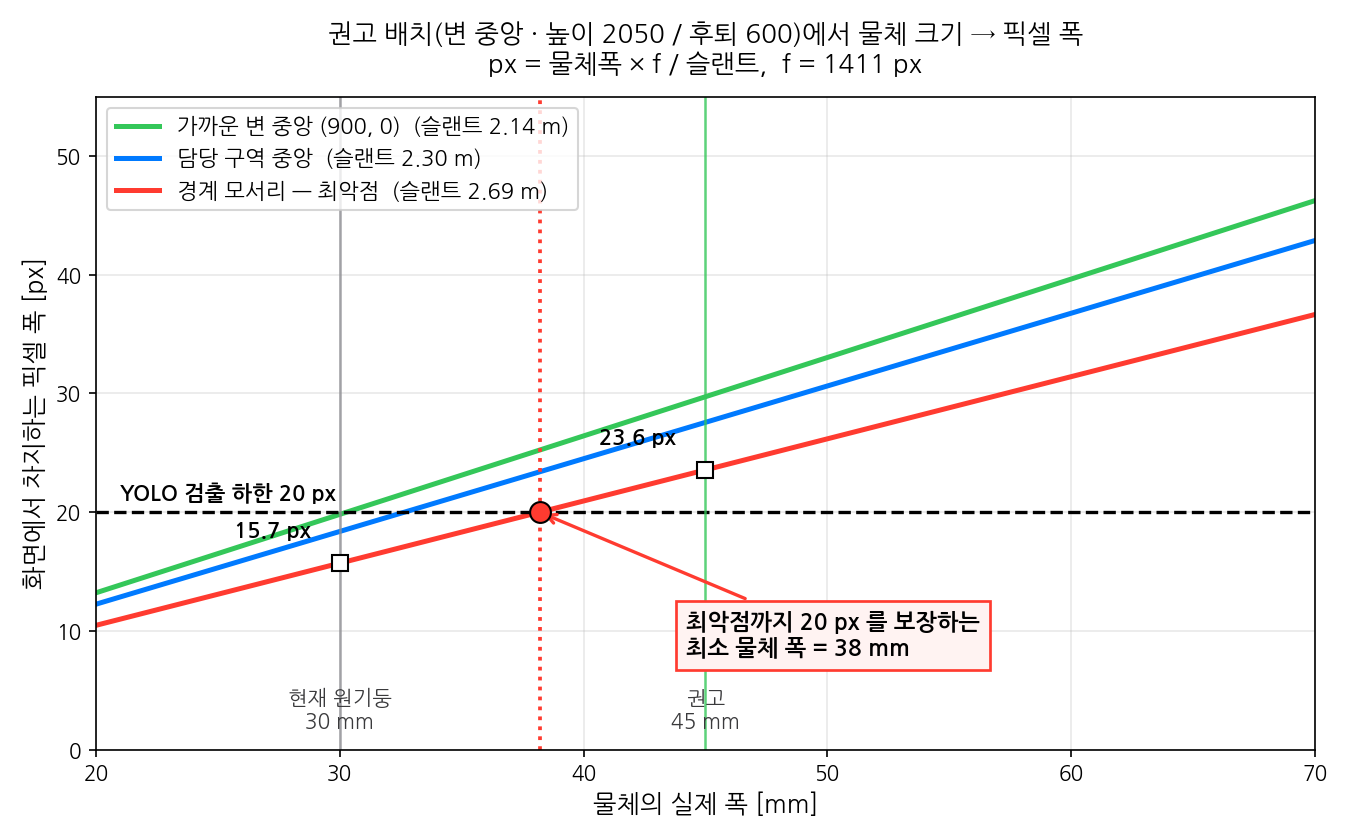
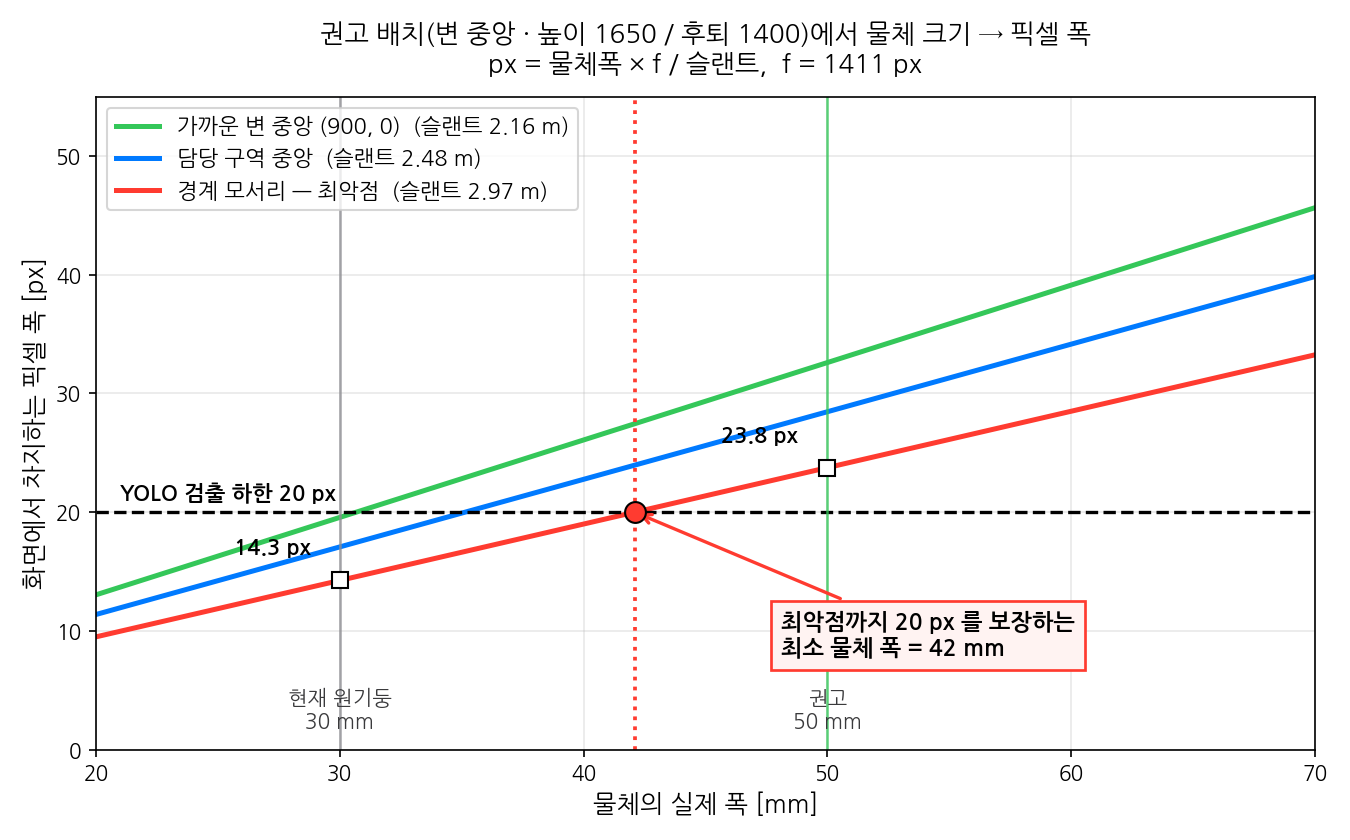
vision: #130 확정값(높이 1,650 · 변 중앙)을 반영
alex7663 이 #130 을 닫으면서 실측 확정값을 남겼다.
"카메라 설치 위치(폭/높이) 950 x 1,650 · 설치 방향 박스 전·후면 각 1대
· 고정 방식 카메라 삼각대 2대". 변 중앙 배치는 맞았고 높이가 다르다 —
삼각대 최대치가 1,650 이라 2,050 은 애초에 불가능했다.

- 확정 기하: 높이 1,650 · 후퇴 1,400 · 하향 42.8°
  (1,650 에서는 후퇴 1,150 미만이면 가로가 잘린다)
- 최악점 슬랜트 2.97 m · σmax 3.52 mm/px · 3 px = 10.6 mm
- 20 px 최소 물체 폭 42 mm → 권고 50 mm (45 mm 는 여유 7% 뿐)
- 가벽 가림 띠 377 mm · 상자 뒤 그림자 최대 790 mm

좌우 중심이 높이보다 예민하다. x=900 에서 50 mm 어긋나면
max|u| 가 591 → 624, 100 mm 면 657 로 프레임을 넘는다.
확정 기재의 "폭 950" 은 900 으로 잡아야 한다.

diff --git a/tools/a2/a2_homography.py b/tools/a2/a2_homography.py
@@ -58,14 +58,14 @@ import numpy as np
 # 값이 바뀌면 이 블록만 고치면 report 표까지 따라온다.
 
 WORKSPACE_MM = 1800.0  # 가벽 35 x 45 cm x 16장으로 두른 내부 (8/19 실측)
-CAM_HEIGHT_MM = 2050.0  # 보유 스탠드 최대 2.1 m 에서 흔들림 여유를 뺀 값 (#149 D3)
-CAM_SETBACK_MM = 600.0  # 마주보는 두 "변 중앙" 에서 바깥으로 후퇴 (#149 D3 정정 8/19)
+CAM_HEIGHT_MM = 1650.0  # 삼각대 최대 높이 (#130 확정 8/19). 고정값이다
+CAM_SETBACK_MM = 1400.0  # 마주보는 두 "변 중앙" 에서 바깥으로 후퇴 (#149 D3)
 FOCAL_PX = 1411.0  # f = (1280/2)/tan(24.4°) — C270 720p
-CAM_PITCH_DEG = 63.8  # 아래로 내려다보는 각. 스탠드 헤드가 이만큼 꺾이는지 먼저 확인할 것
-WORST_SLANT_MM = 2695.0  # 최악점(담당 절반의 경계 모서리) 슬랜트
-WORST_ELEV_DEG = 49.5  # 최악점 고도각
-MIN_OBJECT_MM = 40.0  # 최악점에서 20 px 을 보장하는 최소 물체 폭 (#149 D1)
-GEOMETRY_NOTE = "C270 x2 · 720p · HFOV 48.8° · 마주보는 두 변 중앙 · 높이 2.05 m · 후퇴 0.60 m"
+CAM_PITCH_DEG = 42.8  # 아래로 내려다보는 각
+WORST_SLANT_MM = 2970.0  # 최악점(담당 절반의 경계 모서리) 슬랜트
+WORST_ELEV_DEG = 33.7  # 최악점 고도각
+MIN_OBJECT_MM = 42.0  # 최악점에서 20 px 을 보장하는 최소 물체 폭 (#149 D1). 권고 50 mm
+GEOMETRY_NOTE = "C270 x2 · 720p · HFOV 48.8° · 마주보는 두 변 중앙 · 높이 1.65 m · 후퇴 1.40 m"
 
 # 담당 구역: A 는 y in [0, 900], B 는 y in [900, 1800]. 경계는 두 대가 함께 본다.
 HALF_MM = WORKSPACE_MM / 2

diff --git a/tools/a2/README_A2.md b/tools/a2/README_A2.md
@@ -24,7 +24,7 @@ cd tools/a2
 > [!IMPORTANT]
 > **지시점은 바운딩박스 아래쪽 모서리(바닥 접지선)다.**
 > 호모그래피는 바닥 평면만 사상한다. 물체 중심을 찍으면 물체 높이만큼 밀린다.
-> 고도각이 낮을수록 이 오차가 커진다 — 권고 배치의 최악점에서 1 px 이 2.24 mm 다(§4).
+> 고도각이 낮을수록 이 오차가 커진다 — 확정 배치의 최악점에서 1 px 이 3.52 mm 다(§4).
 
 ---
 
@@ -33,19 +33,21 @@ cd tools/a2
 ```
    Y
    ↑
-   │                    ▲ B (900, 2400)
+   │                    ▲ B (900, 3200)
    │  (0, 1800) ┌───────────────┐ (1800, 1800)
    │            │   B 담당      │
    │            ├───────────────┤  ← 담당 경계 y = 900
    │            │   A 담당      │
    │  (0, 0)    └───────────────┘ (1800, 0)
-   │                    ▲ A (900, -600)
+   │                    ▲ A (900, -1400)
    └──────────────────────────────→ X      (단위 mm)
 ```
 
-**카메라는 마주보는 두 "변 중앙" 바깥에 선다.** 모서리가 아니다 —
-모서리에 두면 담당 구역이 삼각형이 되어 최악점이 3.60 m 로 멀어지고,
-변 중앙에 두면 납작한 직사각형이라 2.69 m 로 가까워진다(§4·§6).
+**카메라는 마주보는 두 "변 중앙" 바깥에 선다** (#130 확정 — "박스 전·후면 각 1대").
+모서리가 아니다 — 모서리에 두면 담당 구역이 삼각형이 되어 최악점이 멀어진다(§4·§6).
+
+좌표는 A 가 `(900, -1400)`, B 가 `(900, 3200)`, 높이 1650 mm 다.
+**x = 900 을 정확히 맞추는 것이 높이보다 중요하다** (§4 주의).
 
 A 는 `y ∈ [0, 900]`, B 는 `y ∈ [900, 1800]` 을 담당하고 경계는 둘 다 본다.
 
@@ -188,39 +190,46 @@ A · B 를 합쳐 하나의 마크다운을 만든다.
 
 ## 4. 픽셀 민감도 — 왜 20 mm 가 빠듯한가
 
-C270 ×2 · **마주보는 두 변 중앙 · 높이 2050 mm · 후퇴 600 mm · 하향 63.8°** ·
+C270 ×2 · **마주보는 두 변 중앙 · 높이 1650 mm · 후퇴 1400 mm · 하향 42.8°** ·
 작업 공간 1.8 × 1.8 m · `f = 1411 px` 기준이다.
-(#149 D3. 표는 `python tools/a2/coverage_analysis.py` 로 언제든 다시 만든다.)
+(#130 확정. 표는 `python tools/a2/coverage_analysis.py` 로 언제든 다시 만든다.)
+
+> [!IMPORTANT]
+> **높이 1650 은 삼각대 최대치라 고정값이다.** 조절할 수 있는 건 후퇴뿐이고,
+> 후퇴를 줄이면 가로가 잘린다(최소 1150 mm). 1400 은 가로에 7.6% 여유를 둔 값이다.
 
 `σmax` 는 이미지→월드 사상 야코비안의 **최대 특이값**, 즉 클릭 1 px 이 최악 방향으로
-어긋났을 때의 월드 오차다. 괄호 안은 해석 근사 `slant / (f · sin θ)` 로, 최대 12% 보수적이다.
+어긋났을 때의 월드 오차다. 괄호 안은 해석 근사 `slant / (f · sin θ)` 다.
 
-| 지점 | 슬랜트 | 고도각 | **σmax (mm/px)** | 3 px 최악 | 30 mm 물체 | 45 mm 물체 |
+| 지점 | 슬랜트 | 고도각 | **σmax (mm/px)** | 3 px 최악 | 30 mm 물체 | 50 mm 물체 |
 |---|---|---|---|---|---|---|
-| 가까운 변 중앙 | 2.14 m | 73.7° | **1.53** (1.58) | 4.6 mm | 19.8 px | 29.7 px |
-| 가까운 변 모서리 | 2.32 m | 62.2° | **1.66** (1.86) | 5.0 mm | 18.3 px | 27.4 px |
-| 담당 구역 중앙 | 2.30 m | 62.9° | **1.83** (1.83) | 5.5 mm | 18.4 px | 27.6 px |
-| 경계 중앙 | 2.54 m | 53.8° | **2.16** (2.23) | 6.5 mm | 16.7 px | 25.0 px |
-| **경계 모서리 (최악점)** | **2.69 m** | **49.5°** | **2.24** (2.51) | **6.7 mm** | **15.7 px** | **23.6 px** |
+| 가까운 변 중앙 | 2.16 m | 49.7° | **1.98** (2.01) | 5.9 mm | 19.6 px | 32.7 px |
+| 가까운 변 모서리 | 2.34 m | 44.8° | **2.16** (2.36) | 6.5 mm | 18.1 px | 30.2 px |
+| 담당 구역 중앙 | 2.48 m | 41.7° | **2.64** (2.64) | 7.9 mm | 17.1 px | 28.5 px |
+| 경계 중앙 | 2.83 m | 35.7° | **3.39** (3.44) | 10.2 mm | 15.0 px | 25.0 px |
+| **경계 모서리 (최악점)** | **2.97 m** | **33.7°** | **3.52** (3.79) | **10.6 mm** | **14.3 px** | **23.8 px** |
 
-프레이밍은 `max|u| = 604 / 640`, `max|v| = 247 / 360` 이다. 가로가 빠듯한 쪽인데,
+프레이밍은 `max|u| = 591 / 640`, `max|v| = 176 / 360` 이다. 가로가 빠듯한 쪽인데,
 **카메라가 폭 1800 mm 를 통째로 담아야 하기 때문**이다. 이게 이 배치의 지배 제약이다.
 
 > [!CAUTION]
-> **30 mm 물체는 최악점에서 15.7 px 로, 검출 하한 20 px 에 못 미친다.**
-> 배치로는 못 고친다 — 높이 900~2600 mm × 후퇴 100~1600 mm 를 전수 탐색해도
-> 30 mm 의 최대치는 17.4 px 다(`fig1_placement_sweep.png`).
-> 최악점까지 20 px 을 보장하려면 **물체 폭이 38 mm 이상**이어야 한다.
-> 여유를 보아 **45 mm** 를 권고한다(23.6 px). → #149 D1
+> **좌우를 정확히 변의 중앙(x = 900)에 두어야 한다.** 50 mm 어긋나면 `max|u|` 가
+> 591 → 624 로 뛰고, 100 mm 면 657 로 **프레임을 넘는다.** 높이보다 이쪽이 예민하다.
+
+> [!CAUTION]
+> **30 mm 물체는 최악점에서 14.3 px 로, 검출 하한 20 px 에 못 미친다.**
+> 배치로는 못 고친다 — 전수 탐색해도 최대 17.4 px 다(`fig1_placement_sweep.png`).
+> 20 px 을 보장하는 최소 폭은 **42 mm**, 여유를 보아 **50 mm** 를 권고한다(23.8 px).
+> → #149 D1
 
 > [!NOTE]
-> 위치 정확도(σmax)는 이 배치에서 여유가 크다. 최악점 3 px 이 6.7 mm 로 기준 20 mm 의 1/3 이다.
-> 병목은 정확도가 아니라 **물체가 화면에서 너무 작다는 것**이다. 둘을 섞어서 보면 안 된다.
+> 위치 정확도는 최악점 3 px 이 10.6 mm 로 기준 20 mm 안이지만 여유가 절반뿐이다.
+> 높이를 1900 으로 올릴 수 있으면 σmax 가 3.52 → 2.59 로 떨어진다(#149 D3).
 
 > [!NOTE]
-> **왜 두 대인가.** 한 대로 1.8 × 1.8 전체를 담는 것 자체는 가능하다(예: 높이 2050 · 후퇴 1200,
-> max|u| 548 · max|v| 317). 그러나 그때 먼 모서리는 슬랜트 3.74 m 로 30 mm 가 11.3 px 이 되고
-> 가림도 한 방향에서만 생긴다. **화각이 아니라 해상도와 가림 때문에** 두 대를 쓴다.
+> **왜 두 대인가.** 한 대로 1.8 × 1.8 전체를 담는 것 자체는 가능하다. 그러나 그때 먼 모서리는
+> 슬랜트가 크게 늘어 30 mm 가 11 px 대로 떨어지고 가림도 한 방향에서만 생긴다.
+> **화각이 아니라 해상도와 가림 때문에** 두 대를 쓴다.
 
 ---
 
@@ -250,16 +259,19 @@ Pi 5 에서는 **공식 5 V/5 A 어댑터일 때만** USB 주변장치에 1.6 A 
 | 그림 | 무엇을 보이는가 |
 |---|---|
 | ![배치 전수 탐색](../../docs/assets/vision/fig1_placement_sweep.png) | 변 중앙 배치에서도 30 mm 는 20 px 에 못 닿는다 (탐색 1110 조합, 최대 17.4 px) |
-| ![물체 크기](../../docs/assets/vision/fig2_object_size.png) | 권고 배치에서 물체 폭 38 mm 가 검출 하한과 만나는 지점 |
-| ![배치 비교](../../docs/assets/vision/fig3_layout_compare.png) | 모서리 배치와 변 중앙 배치의 차이 — 최악점이 3.60 m 에서 2.69 m 로 |
+| ![물체 크기](../../docs/assets/vision/fig2_object_size.png) | 확정 배치에서 물체 폭 42 mm 가 검출 하한과 만나는 지점 |
+| ![배치 비교](../../docs/assets/vision/fig3_layout_compare.png) | 모서리 배치와 변 중앙 배치의 차이 |
 
-읽는 법 둘을 짚어 둔다.
+읽는 법 셋을 짚어 둔다.
 
 **① 검출(픽셀 폭)과 정확도(σmax)는 서로 다른 병목이다.**
-이 배치는 정확도 쪽으로 여유가 크다(최악점 3 px = 6.7 mm ≪ 20 mm).
-남은 문제는 물체가 작다는 것 하나뿐이고, 그건 물체를 키워야 풀린다.
+확정 배치에서 정확도는 최악점 3 px = 10.6 mm 로 기준 20 mm 안이다. 남은 문제는 물체가 작다는 것이다.
 
 **② 지배 제약은 "한 대가 폭 1800 mm 를 통째로 담아야 한다"는 것이다.**
 그래서 카메라를 몇 대로 늘려도 가로 해상도는 거의 안 좋아진다 —
 네 변에 4대를 두어도 30 mm 는 18.7 px 로 여전히 하한 아래다.
-가로를 쪼개지 않는 한 대수 증설은 답이 아니다.
+
+**③ 높이 1650 은 삼각대 한계라 고정이고, 그 대가가 가림이다.**
+가벽 가림 띠 377 mm · 상자(0.4 m) 뒤 그림자 최대 790 mm 다.
+거치를 1900 mm 까지 올릴 수 있으면 각각 203 · 537 mm 로 줄고 σmax 도 3.52 → 2.59 가 된다.
+대신 하향각이 42.8° → 55.5° 라 **삼각대 헤드가 그만큼 꺾여야 한다**(#149 D3).
